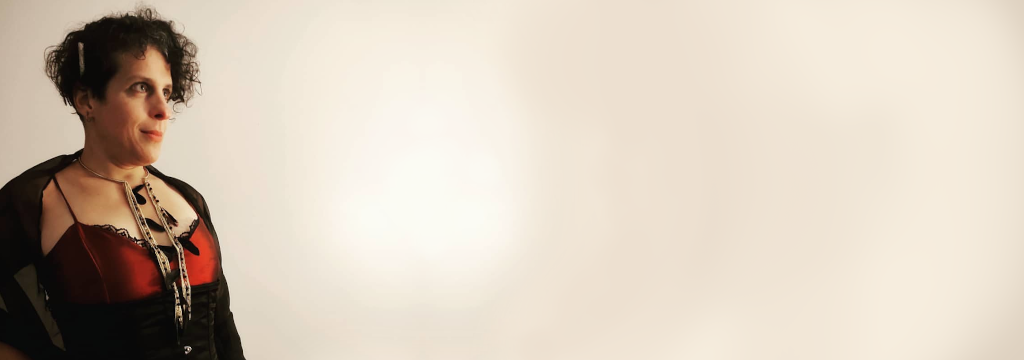
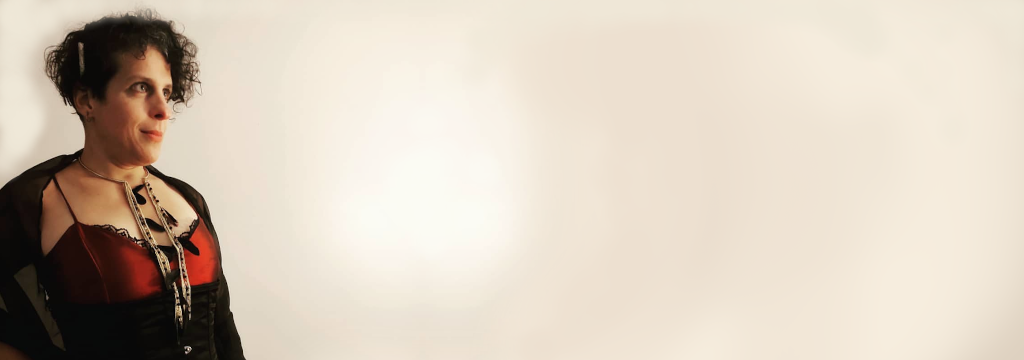
Fix up background of intro for flexi layout

Changed region(s): [[0.0, 0.0, 0.1562, 0.4889]]

diff --git a/css/sfyn.css b/css/sfyn.css
@@ -269,7 +269,7 @@ section.linked-section.odd
 
 #intro .content-wrapper
 {
-		background: transparent url(../img/banner.png) no-repeat left center;
+		background: #efe8d8 url(../img/banner.png) no-repeat left bottom;
 		max-width: 1024px;
 		margin: 0 auto;
 		padding-left: 0px;
@@ -289,7 +289,7 @@ section.linked-section.odd
 	#intro .content-wrapper
 	{
 		padding-left: 100px;
-		background-position: -135px center;
+		background-position: -135px bottom;
 	}
 
 	body #intro .section-content
